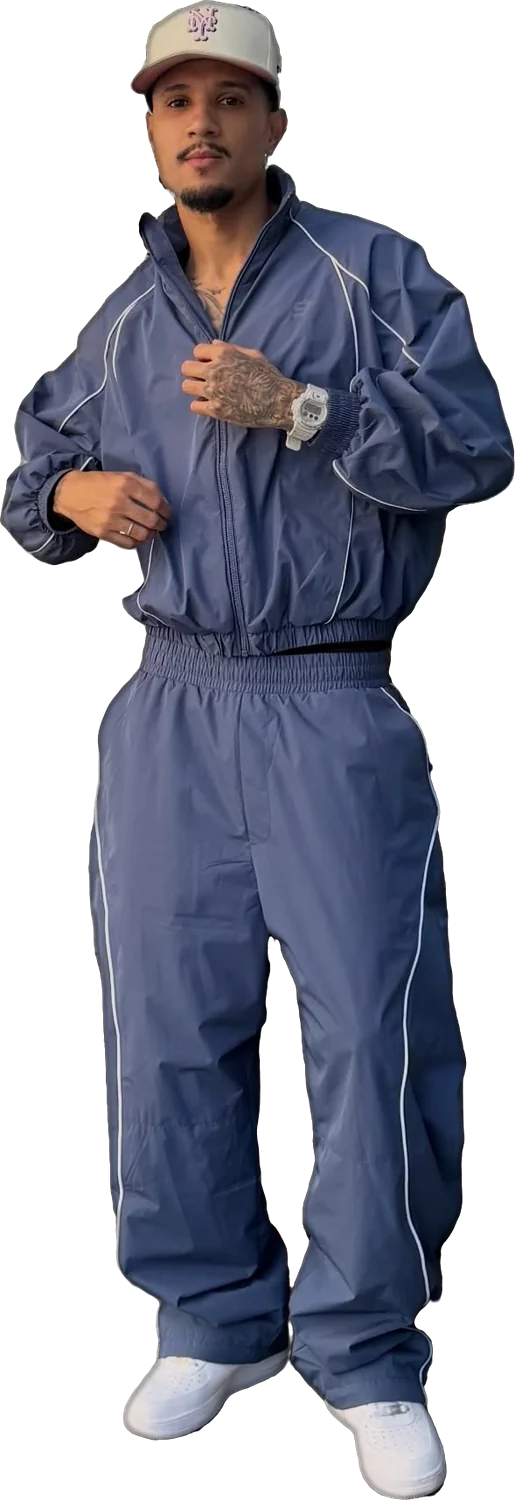
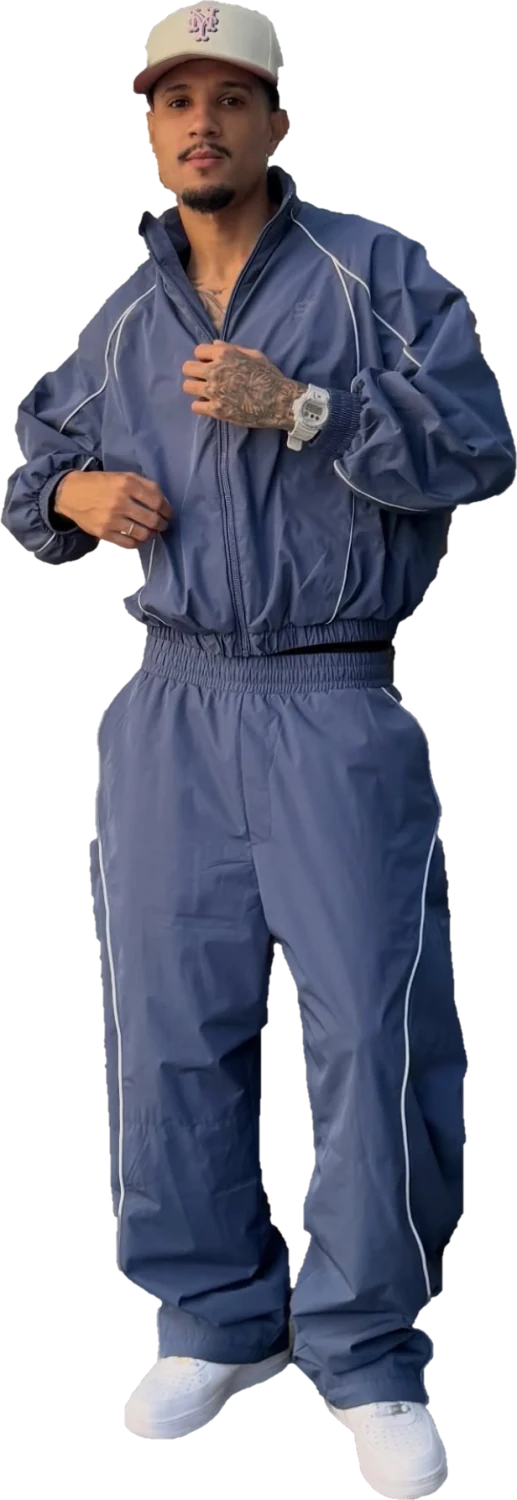
Mobile: menu, hero refeito, carrosséis com arraste, publis com vídeo no toque; recortes da hero refeitos
- Menu em tela cheia no celular e header com fundo depois do topo
- Hero mobile: nome em cima, fit dimensionado pela altura, indicadores e dica de arraste
- Futebol: janela começa maior no celular e galeria vira carrossel
- Dicas: frase acima da foto no celular; corrige texto escuro nos cards
- Publis: toque abre o vídeo da marca
- Recortes refeitos com máscaras Vision (pessoa + foreground) + GrabCut e descontaminação da borda; novo look camuflado

diff --git a/styles.css b/styles.css
@@ -255,7 +255,7 @@ h2 { margin: 0; }
 .dic__stack { display: grid; gap: 40px; }
 .card {
   position: sticky; top: calc(80px + var(--i, 0) * 18px); min-height: 70vh; display: grid; grid-template-columns: minmax(0, 1fr) minmax(0, 1.25fr);
-  align-items: center; gap: clamp(20px, 4vw, 70px); padding: clamp(18px, 3vw, 40px); background: var(--bg); color: var(--ink, var(--paper));
+  align-items: center; gap: clamp(20px, 4vw, 70px); padding: clamp(18px, 3vw, 40px); background: var(--bg); color: var(--fg, var(--paper));
   border-radius: 8px; overflow: hidden; box-shadow: 0 -20px 50px rgba(0,0,0,.35);
 }
 .card img { width: 100%; max-height: 62vh; aspect-ratio: 3 / 4; object-fit: cover; border-radius: 4px; }
@@ -358,4 +358,155 @@ h2 { margin: 0; }
   *, *::before, *::after { animation: none !important; transition-duration: .01ms !important; }
   [data-words] .w { opacity: 1; transform: none; }
   .fut__frame { clip-path: none; }
+}
+
+/* =========================================================
+   mobile: hero refeito, menu, carrosséis com dica de arraste
+   ========================================================= */
+.only-touch { display: none; }
+@media (hover: none) { .only-touch { display: inline; } .only-fine { display: none; } }
+p.only-touch { display: none; }
+
+.hd__menu { display: none; }
+.menu { display: none; }
+.hero__dots { display: none; }
+.brand__vid { display: none; }
+
+@media (max-width: 760px) {
+  /* header + menu */
+  .hd { padding: 14px var(--gut); padding-top: max(14px, env(safe-area-inset-top)); }
+  .hd__cta { display: none; }
+  .hd { transition: color .4s, transform .5s var(--ease), background-color .4s; }
+  .hd.is-solid { background: rgba(18,17,16,.82); -webkit-backdrop-filter: blur(10px); backdrop-filter: blur(10px); }
+  .hd.is-solid.is-dark { background: rgba(239,233,225,.85); }
+  .menu-open .hd.is-solid { background: transparent; backdrop-filter: none; -webkit-backdrop-filter: none; }
+  .hd__menu { width: 42px; height: 42px; }
+  .hd__menu {
+    display: grid; gap: 6px; place-content: center; margin-left: auto; width: 46px; height: 46px; border: 1.5px solid; border-radius: 50%; background: transparent; padding: 0;
+  }
+  .hd__menu span { display: block; width: 18px; height: 1.5px; background: currentColor; transition: transform .4s var(--ease); }
+  .menu-open .hd__menu span:first-child { transform: translateY(3.75px) rotate(45deg); }
+  .menu-open .hd__menu span:last-child { transform: translateY(-3.75px) rotate(-45deg); }
+  .menu-open .hd { color: var(--ink); transform: none; }
+  .menu {
+    position: fixed; inset: 0; z-index: 45; display: flex; flex-direction: column; justify-content: center; gap: 2px;
+    padding: 90px var(--gut) 40px; background: var(--rosa); color: var(--ink);
+    clip-path: circle(0% at calc(100% - 39px) 37px); transition: clip-path .7s var(--ease); visibility: hidden;
+  }
+  .menu[hidden] { display: flex; }
+  .menu-open .menu { clip-path: circle(150% at calc(100% - 39px) 37px); visibility: visible; }
+  .menu > a {
+    display: flex; align-items: baseline; gap: 14px; text-decoration: none; font-weight: 900; font-variation-settings: "wdth" 125;
+    font-size: clamp(40px, 13vw, 64px); line-height: 1.05; letter-spacing: -.04em; text-transform: uppercase;
+    opacity: 0; transform: translateY(30px); transition: opacity .4s, transform .6s var(--ease);
+  }
+  .menu > a i { font-style: normal; font-size: 12px; letter-spacing: 0; font-weight: 500; }
+  .menu-open .menu > a { opacity: 1; transform: none; }
+  .menu-open .menu > a:nth-child(2) { transition-delay: .05s; } .menu-open .menu > a:nth-child(3) { transition-delay: .1s; }
+  .menu-open .menu > a:nth-child(4) { transition-delay: .15s; } .menu-open .menu > a:nth-child(5) { transition-delay: .2s; }
+  .menu-open .menu > a:nth-child(6) { transition-delay: .25s; }
+  .menu__foot { margin: 30px 0 0; }
+  .menu__foot a { text-decoration: underline; }
+
+  /* hero: nome em cima, fit no centro, etiqueta + botões embaixo */
+  .hero { min-height: 600px; height: 100svh; }
+  .hero__name { justify-content: flex-start; padding-top: calc(78px + env(safe-area-inset-top)); }
+  .hero__line { font-size: 19.4vw; letter-spacing: -.05em; }
+  .hero__line:nth-child(2) { -webkit-text-stroke-width: 1.2px; }
+  .hero__stage { inset: auto 0 calc(118px + env(safe-area-inset-bottom)) 0; top: auto; place-items: end center; }
+  .hero__fit { height: calc(100svh - 150px - 19.4vw - env(safe-area-inset-bottom)); max-height: none; width: auto; max-width: 92vw; object-fit: contain; }
+  .hero__bio { left: auto; right: var(--gut); top: calc(78px + 21.5vw * 2 + 10px + env(safe-area-inset-top)); bottom: auto; max-width: none; display: none; }
+  .hero__label {
+    top: auto; translate: none; right: auto; left: var(--gut); bottom: calc(84px + env(safe-area-inset-bottom));
+    width: min(64vw, 250px); padding: 10px 12px; rotate: -2deg; z-index: 2;
+  }
+  .hero__label::before { display: none; }
+  .hero__idx { padding-bottom: 6px; margin-bottom: 6px; font-size: 11px; }
+  .hero__cap { font-size: 15px; margin-bottom: 4px; }
+  .hero__credit { font-size: 10px; }
+  .hero__ctrl { left: var(--gut); right: var(--gut); bottom: calc(20px + env(safe-area-inset-bottom)); justify-content: flex-end; }
+  .fitbtn { padding: 14px 18px; min-height: 48px; }
+  .fitbtn--prev { width: 48px; justify-content: center; padding: 0; margin-right: auto; }
+  .hero__dots { display: flex; gap: 6px; position: absolute; left: 50%; translate: -50% 0; bottom: calc(40px + env(safe-area-inset-bottom)); }
+  .hero__dots i { width: 6px; height: 6px; border-radius: 99px; background: rgba(18,17,16,.3); transition: width .4s var(--ease), background .3s; }
+  .hero__dots i.is-on { width: 20px; background: var(--ink); }
+  .hero__hint { display: block; position: absolute; top: auto; bottom: calc(84px + env(safe-area-inset-bottom)); left: auto; right: var(--gut); translate: none; width: 26vw; text-align: right; font-size: 10px; line-height: 1.3; }
+
+  /* faixa */
+  .marquee { padding: 12px 0; }
+
+  /* rotação */
+  .rot__head { box-shadow: none; }
+  .rot__lead { margin-bottom: 0; }
+  .swipe { display: flex !important; justify-content: space-between; padding: 0 var(--gut); margin: 0 0 14px; color: var(--mute); }
+  .swipe b { color: var(--paper); font-weight: 500; }
+  .swipe em { font-style: normal; }
+  .swipe span { animation: nudge 1.6s ease-in-out infinite; }
+  @keyframes nudge { 50% { transform: translateX(6px); } }
+  .look__stack img[data-pos="1"] { transform: rotate(3deg) translate(3%, 1%); }
+  .look__stack img[data-pos="2"] { transform: rotate(-3deg) translate(-3%, 2%); }
+  .rot__track { padding-top: 14px; padding-bottom: 20px; }
+
+  /* futebol: janela começa maior, menos scroll vazio, galeria vira carrossel */
+  .fut { padding: 90px 0 70px; }
+  .fut__window { height: 150svh; }
+  .fut__frame { clip-path: inset(10% 8% 10% 8% round 8px); }
+  .fut__over { padding-bottom: calc(5svh + env(safe-area-inset-bottom)); }
+  .fut__big { font-size: 15vw; }
+  .fut__stat b { font-size: 18vw; }
+  .swipe--ink { padding-top: 46px; color: #7a726b; }
+  .fut__grid {
+    display: flex; gap: 12px; padding: 0 var(--gut) 8px; overflow-x: auto; scroll-snap-type: x mandatory;
+    scrollbar-width: none; align-items: flex-start;
+  }
+  .fut__grid::-webkit-scrollbar { display: none; }
+  .fut__grid > * { flex: none; width: 58vw; margin-top: 0 !important; scroll-snap-align: start; scroll-margin-left: var(--gut); }
+  .fut__grid .ph img, .ph--tall img, .ph--wide img { aspect-ratio: 9 / 16; height: auto; object-fit: cover; }
+  .ph--wide { width: 58vw; }
+  .fut__credit { padding-top: 18px; }
+
+  /* humor */
+  .hum { padding: 90px 0 80px; }
+  .hum__head { margin-bottom: 30px; }
+  .hum__row { grid-auto-columns: 64vw; gap: 14px; padding-top: 10px; }
+  .hum__row .reel:nth-child(odd), .hum__row .reel:nth-child(even) { rotate: 0deg; margin-top: 0; }
+  .reel__snd { width: 44px; height: 44px; }
+
+  /* dicas: card cabe inteiro na tela, frase em cima da foto */
+  .dic { padding: 90px var(--gut) 40px; }
+  .dic__head { margin-bottom: 40px; }
+  .dic__stack { gap: 24px; }
+  .card { top: calc(64px + var(--i, 0) * 10px); grid-template-columns: 1fr; gap: 14px; padding: 16px 16px 18px; align-items: start; }
+  .card blockquote { order: -1; font-size: clamp(24px, 7.2vw, 32px); padding-right: 40px; }
+  .card img { max-height: 40svh; aspect-ratio: 4 / 5; }
+  .card__n { top: 16px; right: 16px; }
+
+  /* interlúdio */
+  .inter__img { height: 62svh; }
+  .inter__txt { padding: 44px var(--gut) 60px; }
+
+  /* publis: toque abre o vídeo da publi */
+  .pub { padding: 90px var(--gut); }
+  .pub__title { margin-bottom: 36px; }
+  .brand { padding: 20px 0; cursor: pointer; grid-template-columns: 1fr auto; }
+  .brand__name { font-size: clamp(28px, 9vw, 44px); }
+  .brand__line, .brand__tag { grid-column: 1 / -1; }
+  .brand::after { content: "+"; grid-column: 2; grid-row: 1; font-family: var(--mono); font-size: 22px; transition: transform .4s var(--ease); }
+  .brand.is-open::after { transform: rotate(45deg); }
+  .brand__vid { grid-column: 1 / -1; display: grid; grid-template-rows: 0fr; transition: grid-template-rows .5s var(--ease); }
+  .brand__vid > div { overflow: hidden; }
+  .brand__vid video { width: 56vw; aspect-ratio: 9 / 16; object-fit: cover; border-radius: 6px; margin-top: 12px; }
+  .brand.is-open .brand__vid { grid-template-rows: 1fr; }
+
+  /* contato */
+  .ct { padding: 90px var(--gut) calc(70px + env(safe-area-inset-bottom)); gap: 40px; }
+  .ct__lead { font-size: 16px; }
+  .f--chips span { padding: 11px 15px; }
+  .ct__send { width: 100%; justify-content: center; min-height: 56px; }
+
+  .ft__big { font-size: 10.6vw; }
+  .ft { padding-bottom: calc(30px + env(safe-area-inset-bottom)); }
+}
+@media (max-width: 760px) and (max-height: 680px) {
+  .hero__label { display: none; }
 }

diff --git a/index.html b/index.html
@@ -45,7 +45,18 @@
     <a href="#dicas">dicas</a>
   </nav>
   <a class="hd__cta" href="#contato">contato <svg><use href="#arrow"/></svg></a>
+  <button class="hd__menu" aria-label="Abrir menu" aria-expanded="false" aria-controls="menu"><span></span><span></span></button>
 </header>
+
+<nav class="menu" id="menu" aria-label="Menu" hidden>
+  <a href="#rotacao"><i class="mono">01</i>fits</a>
+  <a href="#futebol"><i class="mono">02</i>futebol</a>
+  <a href="#humor"><i class="mono">03</i>humor</a>
+  <a href="#dicas"><i class="mono">04</i>dicas</a>
+  <a href="#publis"><i class="mono">05</i>publis</a>
+  <a href="#contato"><i class="mono">06</i>contato</a>
+  <p class="menu__foot mono"><a href="https://www.instagram.com/brnogomes/" target="_blank" rel="noopener">@brnogomes</a> · Moda • Humor • Dicas • Futebol</p>
+</nav>
 
 <main>
 
@@ -57,11 +68,11 @@
     <span class="hero__line">GOMES</span>
   </div>
   <div class="hero__stage">
-    <img class="hero__fit is-on" src="img/fit-rosa.webp" alt="Bruno Gomes de camisa rosa listrada, bermuda jeans preta larga e boné" width="425" height="1500">
-    <img class="hero__fit" src="img/fit-conjunto.webp" alt="Bruno Gomes de conjunto de moletom rosa" width="520" height="1500" loading="lazy">
-    <img class="hero__fit" src="img/fit-camo.webp" alt="Bruno Gomes de jaqueta preta, calça camuflada larga e óculos laranja" width="679" height="1500" loading="lazy">
-    <img class="hero__fit" src="img/fit-bege.webp" alt="Bruno Gomes de jaqueta e calça bege com gravata" width="551" height="1500" loading="lazy">
-    <img class="hero__fit" src="img/fit-azul.webp" alt="Bruno Gomes de conjunto esportivo azul" width="515" height="1500" loading="lazy">
+    <img class="hero__fit is-on" src="img/fit-rosa.webp" alt="Bruno Gomes de camisa rosa listrada, bermuda jeans preta larga e boné" width="428" height="1500">
+    <img class="hero__fit" src="img/fit-conjunto.webp" alt="Bruno Gomes de conjunto de moletom rosa" width="521" height="1500" loading="lazy">
+    <img class="hero__fit" src="img/fit-camo.webp" alt="Bruno Gomes de moletom preto com capuz, calça camuflada larga, gorro e óculos laranja" width="614" height="1500" loading="lazy">
+    <img class="hero__fit" src="img/fit-bege.webp" alt="Bruno Gomes de jaqueta e calça bege com gravata" width="552" height="1500" loading="lazy">
+    <img class="hero__fit" src="img/fit-azul.webp" alt="Bruno Gomes de conjunto esportivo azul" width="517" height="1500" loading="lazy">
   </div>
 
   <div class="hero__bio">
@@ -80,7 +91,8 @@
     <button class="fitbtn fitbtn--prev" data-fit-prev aria-label="Fit anterior"><svg><use href="#arrow"/></svg></button>
     <button class="fitbtn" data-fit-next aria-label="Próximo fit">trocar o fit <svg><use href="#arrow"/></svg></button>
   </div>
-  <p class="hero__hint mono">arrasta, clica ou usa ← →</p>
+  <div class="hero__dots" aria-hidden="true"><i class="is-on"></i><i></i><i></i><i></i><i></i></div>
+  <p class="hero__hint mono"><span class="only-fine">arrasta, clica ou usa ← →</span><span class="only-touch">arrasta pro lado pra trocar o fit</span></p>
 </section>
 
 <div class="marquee" data-hd="dark" aria-hidden="true">
@@ -96,9 +108,10 @@
     <div class="rot__head">
       <p class="mono kick">// rotação</p>
       <h2 class="rot__title">pegou<br>a visão?</h2>
-      <p class="rot__lead">os fits que passaram pelo feed. passa o mouse ou toca na foto pra ver o resto do carrossel.</p>
+      <p class="rot__lead">os fits que passaram pelo feed. <span class="only-fine">passa o mouse ou clica na foto pra ver o resto do carrossel.</span><span class="only-touch">toca na foto pra ver o resto do carrossel, arrasta pro lado pros outros looks.</span></p>
       <div class="rot__progress"><span></span></div>
     </div>
+    <p class="swipe mono only-touch" aria-hidden="true"><em><b data-rot-n>01</b> / 07</em> <span>arrasta →</span></p>
     <div class="rot__track">
 
       <article class="look" style="--c:#d3a9c3">
@@ -192,6 +205,7 @@
     </div>
   </div>
 
+  <p class="swipe swipe--ink mono only-touch" aria-hidden="true">pro 5 · arrasta →</p>
   <div class="fut__grid">
     <figure class="reel" data-reel>
       <video src="video/clareou.mp4" poster="video/clareou.jpg" muted loop playsinline preload="none" data-autoplay></video>
@@ -218,7 +232,7 @@
   <div class="hum__head">
     <p class="mono kick">// humor</p>
     <h2 class="hum__title">to<br>errado?</h2>
-    <p class="hum__lead">toca no vídeo pra ligar o som.</p>
+    <p class="hum__lead">toca no vídeo pra ligar o som.<span class="only-touch"> arrasta pro lado pros outros.</span></p>
   </div>
   <div class="hum__row">
     <figure class="reel reel--sound" data-reel>
@@ -276,7 +290,7 @@
       <blockquote>um dia, aquilo que hoje parece pequeno será motivo de orgulho.</blockquote>
       <span class="mono card__n">04 / 05</span>
     </article>
-    <article class="card" style="--bg:#d3a9c3;--ink:#121110">
+    <article class="card" style="--bg:#d3a9c3;--fg:#121110">
       <img src="img/frase-inspira.jpg" alt="Bruno com uma caixa da Bershka" loading="lazy">
       <blockquote>quem insiste hoje. inspira alguém amanhã.</blockquote>
       <span class="mono card__n">05 / 05</span>

diff --git a/main.js b/main.js
@@ -91,6 +91,7 @@
     heroEl.style.setProperty('--fit', f.c);
     document.querySelector('meta[name=theme-color]').content = f.c;
     idxEl.textContent = String(cur + 1).padStart(2, '0');
+    $$('.hero__dots i').forEach((d, k) => d.classList.toggle('is-on', k === cur));
     capEl.textContent = f.cap; creditEl.textContent = f.credit;
     if (motion) gsap.fromTo('.hero__label', { rotate: -4, y: -10 }, { rotate: 3, y: 0, duration: 1.1, ease: 'elastic.out(1, .4)' });
   };
@@ -147,6 +148,7 @@
     hdZones.forEach(z => { const r = z.getBoundingClientRect(); if (r.top <= 30 && r.bottom > 30) theme = z.dataset.hd; });
     hd.classList.toggle('is-dark', theme === 'light');
     const y = scrollY;
+    hd.classList.toggle('is-solid', y > innerHeight * .8);
     hd.classList.toggle('is-hidden', y > lastY && y > 160 && !document.body.classList.contains('menu-open'));
     lastY = y;
   };
@@ -223,7 +225,7 @@
   /* ================= futebol: janela abre pra tela cheia ================= */
   if (motion) {
     gsap.fromTo('.fut__frame',
-      { clipPath: 'inset(18% 30% 18% 30% round 8px)' },
+      { clipPath: () => desk() ? 'inset(18% 30% 18% 30% round 8px)' : 'inset(10% 8% 10% 8% round 8px)' },
       { clipPath: 'inset(0% 0% 0% 0% round 0px)', ease: 'none',
         scrollTrigger: { trigger: '.fut__window', start: 'top top', end: '55% top', scrub: true } });
     gsap.from('.fut__big', { yPercent: 40, opacity: 0, ease: 'none', scrollTrigger: { trigger: '.fut__window', start: '30% top', end: '60% top', scrub: true } });
@@ -244,7 +246,7 @@
   cards.forEach((c, i) => c.style.setProperty('--i', i));
   if (motion) {
     cards.forEach((c, i) => {
-      if (i === cards.length - 1) return;
+      if (i === cards.length - 1 || !desk()) return;
       gsap.to(c, { scale: .93, filter: 'brightness(.7)', ease: 'none',
         scrollTrigger: { trigger: cards[i + 1], start: 'top 75%', end: 'top 15%', scrub: true } });
     });
@@ -268,6 +270,46 @@
       b.addEventListener('mousemove', e => { tx = e.clientX + 30; ty = e.clientY - 180; });
     });
   }
+
+  /* ================= menu mobile ================= */
+  const menu = $('#menu'), menuBtn = $('.hd__menu');
+  const setMenu = open => {
+    document.body.classList.toggle('menu-open', open);
+    menuBtn.setAttribute('aria-expanded', open);
+    menuBtn.setAttribute('aria-label', open ? 'Fechar menu' : 'Abrir menu');
+    if (open) { menu.hidden = false; lenis && lenis.stop(); }
+    else { lenis && lenis.start(); }
+  };
+  menuBtn.addEventListener('click', () => setMenu(!document.body.classList.contains('menu-open')));
+  $$('a', menu).forEach(a => a.addEventListener('click', () => setMenu(false)));
+  addEventListener('keydown', e => { if (e.key === 'Escape') setMenu(false); });
+
+  /* ================= carrossel da rotação no toque: contador ================= */
+  const rotTrack = $('.rot__track'), rotN = $('[data-rot-n]');
+  rotTrack.addEventListener('scroll', () => {
+    if (desk()) return;
+    const items = $$('.look', rotTrack), mid = rotTrack.scrollLeft + rotTrack.clientWidth / 2;
+    let best = 0, bd = 1e9;
+    items.forEach((it, k) => { const d = Math.abs(it.offsetLeft + it.offsetWidth / 2 - mid); if (d < bd) { bd = d; best = k; } });
+    rotN.textContent = String(best + 1).padStart(2, '0');
+  }, { passive: true });
+
+  /* ================= publis no celular: toque abre o vídeo ================= */
+  $$('.brand').forEach(b => {
+    const wrap = document.createElement('div');
+    wrap.className = 'brand__vid';
+    wrap.innerHTML = '<div><video muted loop playsinline preload="none"></video></div>';
+    b.append(wrap);
+    const v = $('video', wrap);
+    b.addEventListener('click', () => {
+      if (desk() && fine) return;
+      const open = !b.classList.contains('is-open');
+      $$('.brand.is-open').forEach(o => { if (o !== b) { o.classList.remove('is-open'); $('.brand__vid video', o).pause(); } });
+      b.classList.toggle('is-open', open);
+      if (open) { if (!v.src) v.src = b.dataset.preview; v.play().catch(() => {}); } else v.pause();
+      setTimeout(() => hasGsap && ScrollTrigger.refresh(), 550);
+    });
+  });
 
   /* ================= contato ================= */
   const mailBtn = $('[data-copy]');
